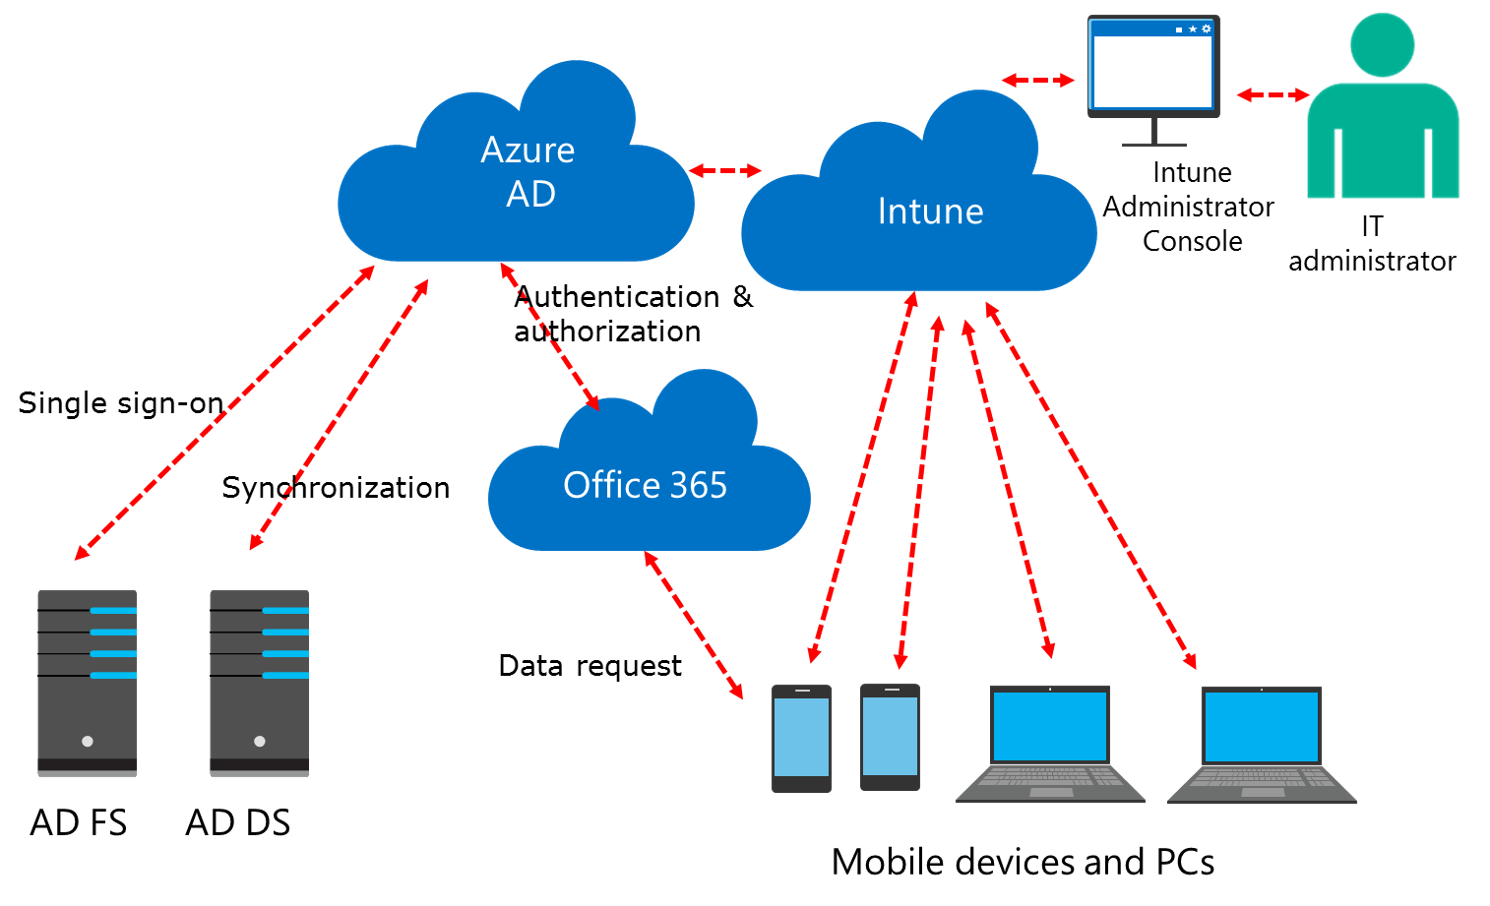
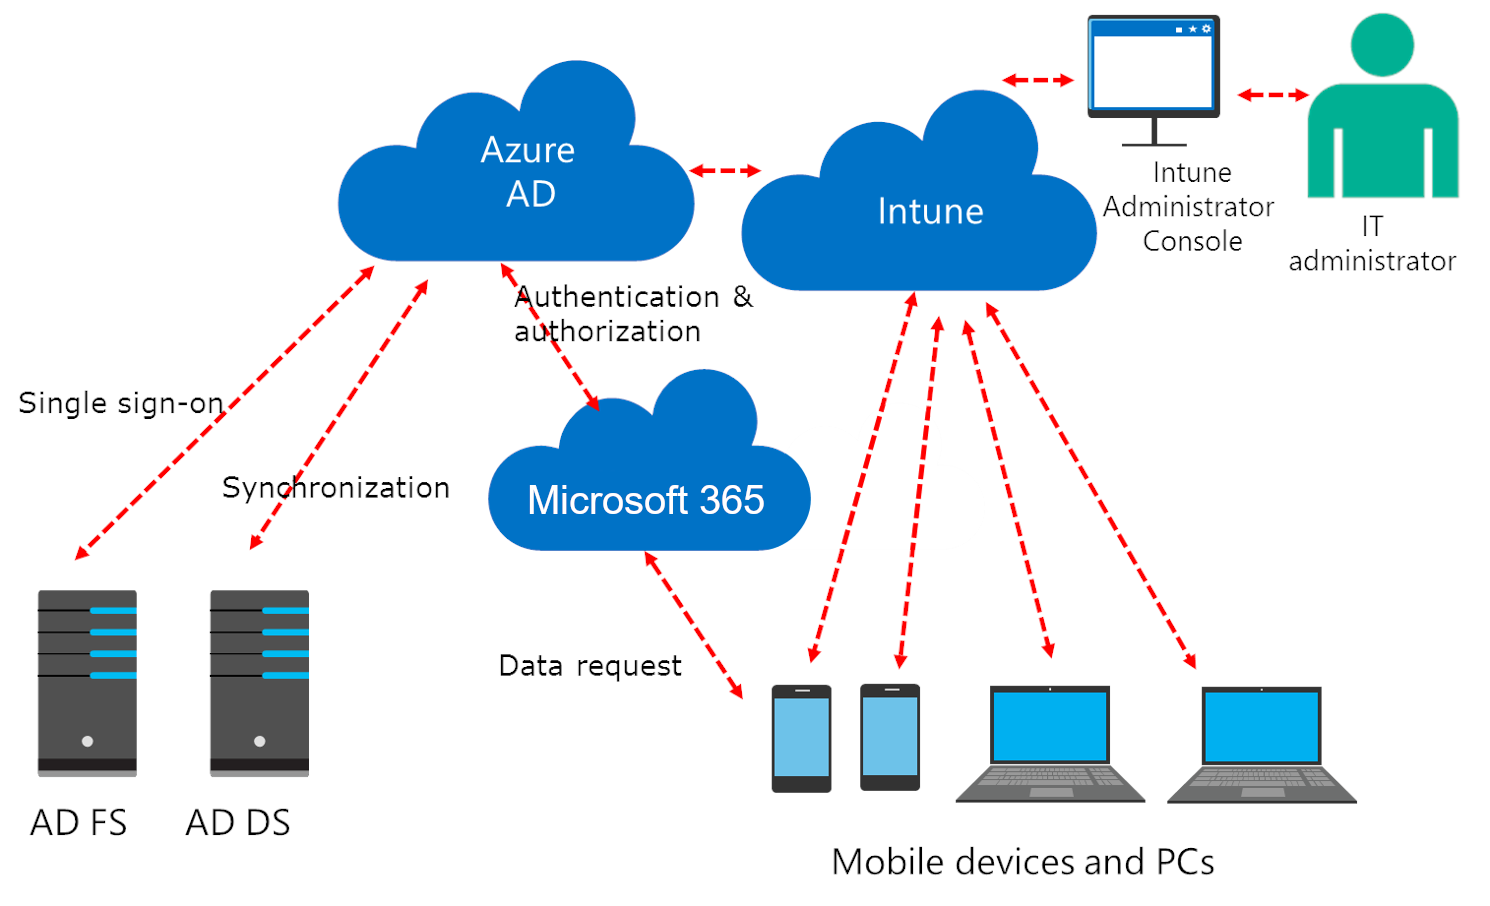
updates to fixed dev ops issues

diff --git a/learn-m365-pr/m365/manage-devices-by-using-microsoft-intune/includes/3-summary-and-knowledge-check.md b/learn-m365-pr/m365/manage-devices-by-using-microsoft-intune/includes/3-summary-and-knowledge-check.md
@@ -1,1 +1,6 @@
 In this module, you learned that Microsoft offers a number of solutions that help organizations protect and secure an organization's resources and data, wherever that data may reside and how by using a device management solution like **Intune** or **co-management with SCCM**, organizations can make sure that only authorized people and devices get access to proprietary information.
+
+Now that you've reviewed this module, you should be able to:
+
+- Describe the available options for device management in Microsoft 365.
+- Explain how Intune can be used to manage device and user profiles.

diff --git a/learn-m365-pr/m365/manage-devices-by-using-microsoft-intune/includes/1-modern-management-options.md b/learn-m365-pr/m365/manage-devices-by-using-microsoft-intune/includes/1-modern-management-options.md
@@ -32,7 +32,7 @@ Intune integrates closely with Azure AD for identity and access control, and Azu
 
 In the following diagram, you can see how Intune interacts with other components in both your on-premises and cloud infrastructure:
 
-![Diagram of Intune components](../media/md101-3-2-1-3.png)
+:::image type="content" source="../media/md101-3-2-1-3.png" alt-text="Diagram of Intune components - Azure AD, Intune, Microsoft 365, and the Intune Administrator console." border="false":::
 
 ## Learn more
 
